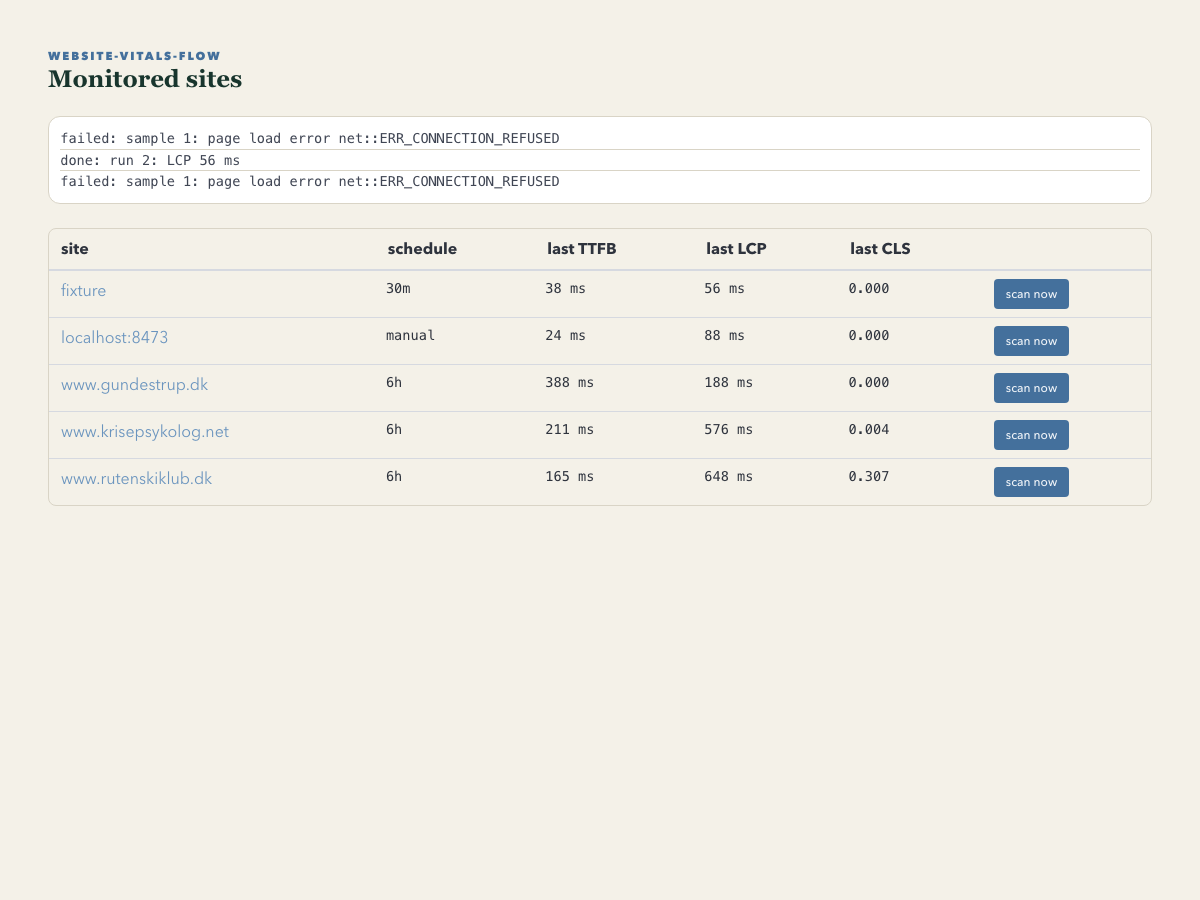
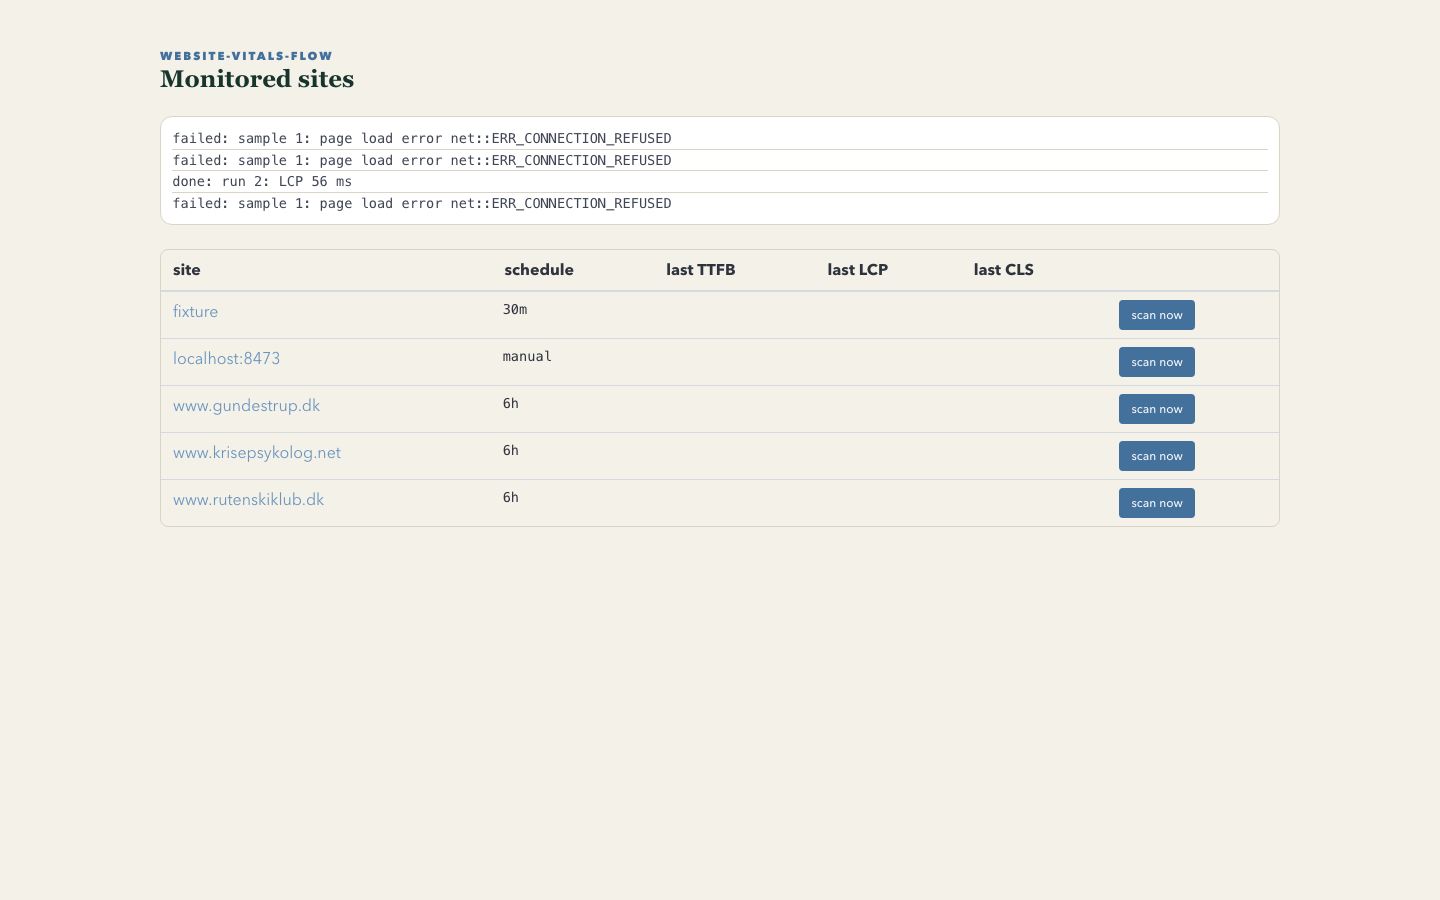
Dashboard uses vendored badges + screenshots regenerated
- site list + runs table render /badges/{metric}-{band}.svg (badge-
  maker output) alongside the metric value — fully offline
- mcell() helper maps run values -> band -> badge file; cls keeps
  3-decimal display, others rounded ms
- docs/img dashboard + site-detail re-captured against live data

Generated with [Devin](https://devin.ai)

diff --git a/internal/server/static/app.js b/internal/server/static/app.js
@@ -8,9 +8,15 @@ document.addEventListener('alpine:init', () => {
       if(v==null||!b) return 'band-na';
       return v>b[1]?'band-poor':v>b[0]?'band-ok':'band-good';
     },
-    pill(id,v){
+    bandName(id,v){
+      return this.band(id,v).replace('band-','');
+    },
+    mcell(id,v){
+      // badge svg + value — shields-style, vendored offline
+      const b=this.bandName(id,v);
       const d=id==='cls'?(v==null?'-':v.toFixed(3)):(v==null?'-':Math.round(v)+'ms');
-      return `<span class="pill ${this.band(id,v)}">${d}</span>`;
+      if(b==='na'||v==null) return `<span class=mono>${d}</span>`;
+      return `<img class="badge-img" src="/badges/${id}-${b}.svg" alt="${b}"><span class="badge-val mono">${d}</span>`;
     },
     async j(u,o){ const r=await fetch(u,o); return r.json() },
     async load(){

diff --git a/internal/server/static/index.html b/internal/server/static/index.html
@@ -14,9 +14,9 @@
       <span class="tag is-light" x-show="s.deep">deep</span>
       <span class="tag is-light" x-show="s.only" x-text="s.only"></span></td>
   <td class=mono x-text="s.schedule||'manual'"></td>
-  <td x-html="last[s.key]?pill('ttfb',last[s.key].ttfb_ms):''"></td>
-  <td x-html="last[s.key]?pill('lcp',last[s.key].lcp_ms):''"></td>
-  <td x-html="last[s.key]?pill('cls',last[s.key].cls):''"></td>
+  <td x-html="last[s.key]?mcell('ttfb',last[s.key].ttfb_ms):''"></td>
+  <td x-html="last[s.key]?mcell('lcp',last[s.key].lcp_ms):''"></td>
+  <td x-html="last[s.key]?mcell('cls',last[s.key].cls):''"></td>
   <td><button class="button is-small is-primary" @click="scan(s.key)" x-bind:disabled="busy">scan now</button></td>
 </tr></template></tbody></table></div>
 <div x-show="sel" style="margin-top:2em">

diff --git a/internal/server/static/style.css b/internal/server/static/style.css
@@ -56,3 +56,6 @@ body { min-height: 100vh; background: var(--wvf-paper); color: var(--wvf-ink); }
 .band-ok { background:#f9a825; color:#222; }
 .band-poor { background:#c62828; }
 .band-na { background:var(--wvf-muted); }
+
+.badge-img { height:18px; vertical-align:middle; }
+.badge-val { margin-left:.45em; font-size:.78rem; }
